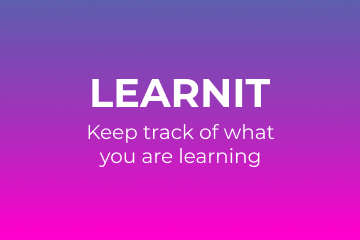
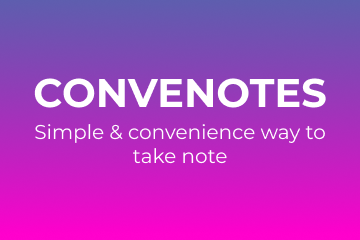
Add Convenotes to project list

Changed region(s): [[0.0917, 0.3208, 0.9167, 0.4667], [0.0917, 0.4958, 0.9167, 0.6125], [0.275, 0.6125, 0.7333, 0.7]]

diff --git a/index.html b/index.html
@@ -193,7 +193,8 @@
             />
             <div class="overlay project--info">
               <h3 class="project--desc">
-                Web application for people to manages their learning progress.
+                Web application for people to manages their note in the simplest
+                way.
               </h3>
               <div>
                 <a
